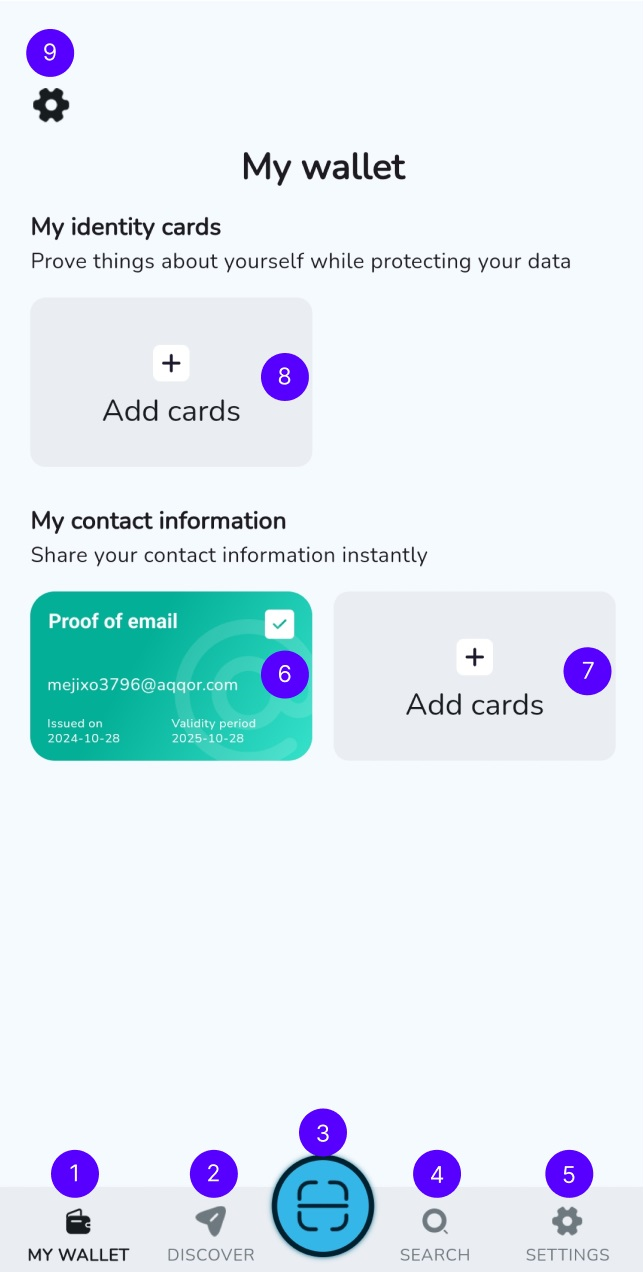
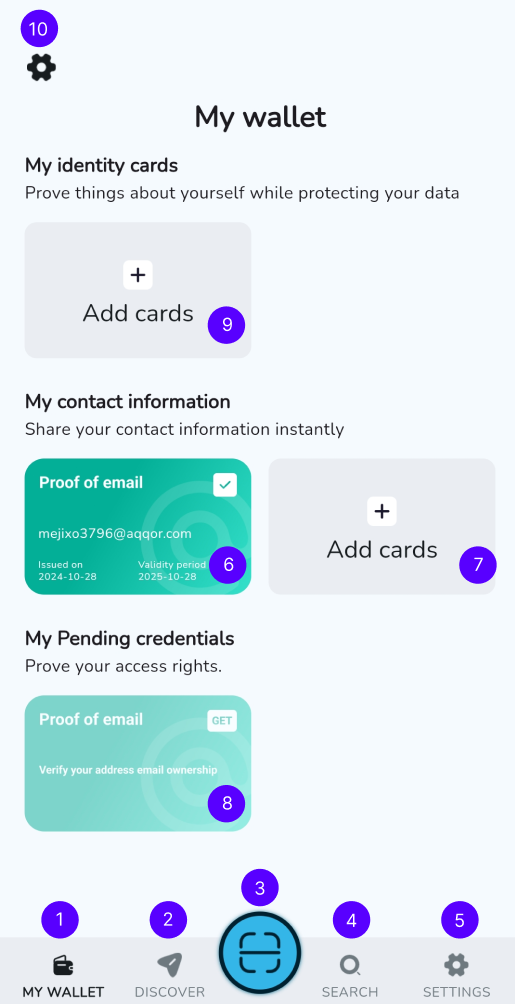
add pending part

diff --git a/src/css/custom.css b/src/css/custom.css
@@ -218,7 +218,7 @@
 .responsive-text-wallet-talao {
   flex: 0 0 70%;
   margin-left: 20px;
-  margin-bottom: 180px;
+  margin-bottom: 150px;
 }
 
 /* Mobile: 50% image, 50% text */

diff --git a/docs/wallet/wallet-screen/talao-wallet-screen.md b/docs/wallet/wallet-screen/talao-wallet-screen.md
@@ -14,6 +14,7 @@
       <li>Settings: to access the settings menu.</li>
       <li>Your contact information</li>
       <li>Add cards: to access the issuer marketplace.</li>
+      <li>Your Pending credentials</li>
       <li>Add cards: to access the issuer marketplace.</li>
       <li>Settings: to access the settings menu.</li>
     </ol>
